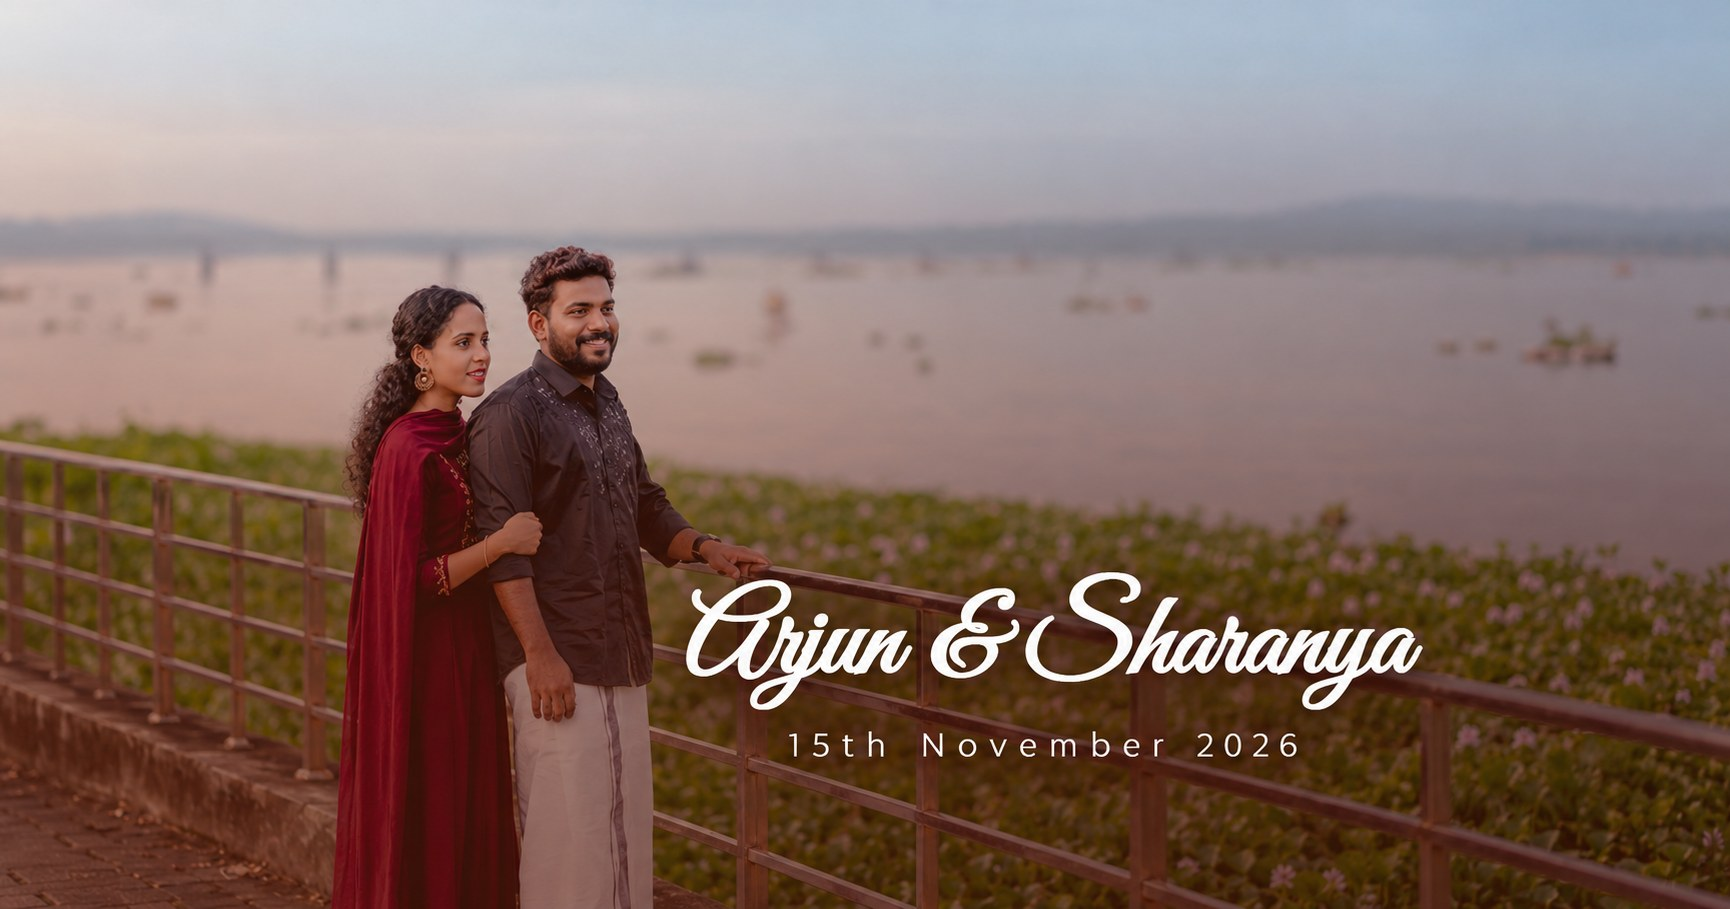
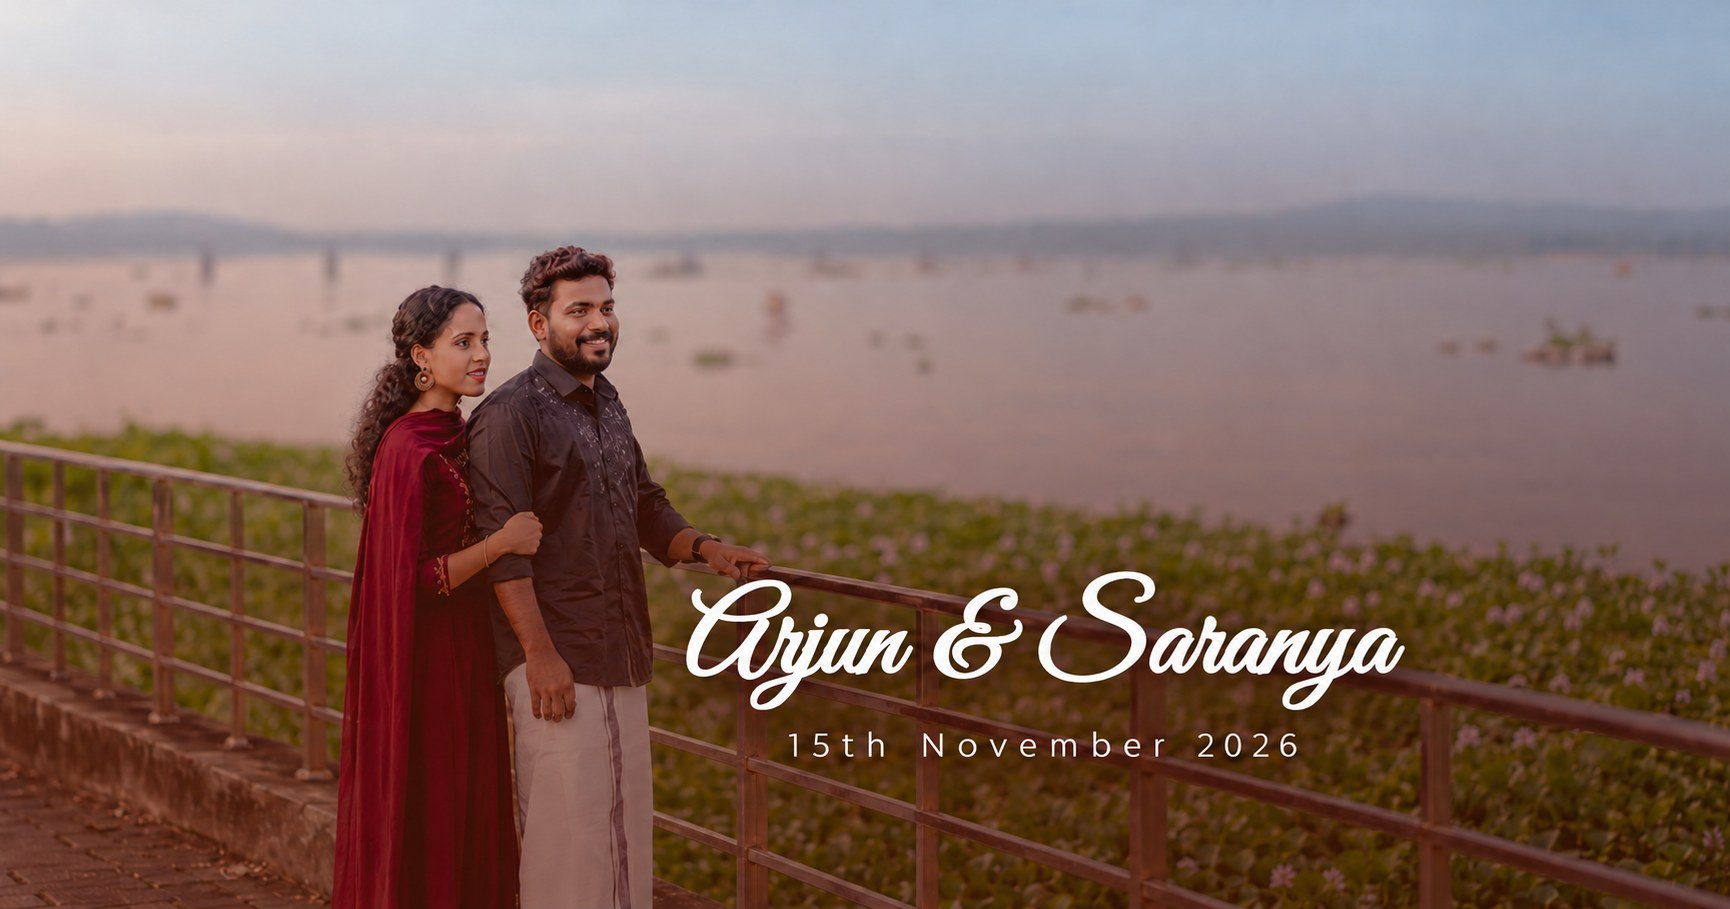
fghjk

Changed region(s): [[0.4682, 0.6161, 0.8428, 0.8009], [0.5931, 0.8009, 0.7179, 0.8317], [0.2185, 0.4004, 0.2497, 0.4312]]

diff --git a/index.html b/index.html
@@ -3,27 +3,27 @@
 <head>
   <meta charset="UTF-8" />
   <meta name="viewport" content="width=device-width, initial-scale=1.0" />
-  <title>Wedding Invitation | Arjun &amp; Sharanya</title>
-  <meta name="description" content="Join us for the wedding celebration of Arjun and Sharanya on 15th November 2026 at SNDP-648 Auditorium, Maravanthuruth, Vaikom." />
+  <title>Wedding Invitation | Arjun &amp; Saranya</title>
+  <meta name="description" content="Join us for the wedding celebration of Arjun and Saranya on 15th November 2026 at SNDP-648 Auditorium, Maravanthuruth, Vaikom." />
 
   <!-- Open Graph / WhatsApp / Facebook -->
   <meta property="og:type" content="website" />
   <meta property="og:url" content="https://arjun-sharanya.vercel.app/" />
-  <meta property="og:title" content="Wedding Invitation | Arjun &amp; Sharanya" />
-  <meta property="og:description" content="Join us for the wedding celebration of Arjun &amp; Sharanya on 15th November 2026 at SNDP-648 Auditorium, Maravanthuruth, Vaikom." />
+  <meta property="og:title" content="Wedding Invitation | Arjun &amp; Saranya" />
+  <meta property="og:description" content="Join us for the wedding celebration of Arjun &amp; Saranya on 15th November 2026 at SNDP-648 Auditorium, Maravanthuruth, Vaikom." />
   <meta property="og:image" content="https://arjun-sharanya.vercel.app/og.jpg" />
   <meta property="og:image:secure_url" content="https://arjun-sharanya.vercel.app/og.jpg" />
   <meta property="og:image:type" content="image/jpeg" />
   <meta property="og:image:width" content="1200" />
   <meta property="og:image:height" content="630" />
-  <meta property="og:image:alt" content="Arjun &amp; Sharanya Wedding Invitation" />
-  <meta property="og:site_name" content="Arjun &amp; Sharanya Wedding" />
+  <meta property="og:image:alt" content="Arjun &amp; Saranya Wedding Invitation" />
+  <meta property="og:site_name" content="Arjun &amp; Saranya Wedding" />
  
   <meta name="twitter:card" content="summary_large_image" />
-  <meta name="twitter:title" content="Wedding Invitation | Arjun &amp; Sharanya" />
-  <meta name="twitter:description" content="Join us for the wedding celebration of Arjun &amp; Sharanya on 15th November 2026 at SNDP-648 Auditorium, Maravanthuruth, Vaikom." />
+  <meta name="twitter:title" content="Wedding Invitation | Arjun &amp; Saranya" />
+  <meta name="twitter:description" content="Join us for the wedding celebration of Arjun &amp; Saranya on 15th November 2026 at SNDP-648 Auditorium, Maravanthuruth, Vaikom." />
   <meta name="twitter:image" content="https://arjun-sharanya.vercel.app/og.jpg" />
-  <meta name="twitter:image:alt" content="Arjun &amp; Sharanya Wedding Invitation" />
+  <meta name="twitter:image:alt" content="Arjun &amp; Saranya Wedding Invitation" />
   <link rel="preconnect" href="https://fonts.googleapis.com" />
   <link rel="preconnect" href="https://fonts.gstatic.com" crossorigin />
   <link href="https://fonts.googleapis.com/css2?family=Great+Vibes&family=Cormorant+Garamond:ital,wght@0,300;0,400;0,600;1,400&family=Montserrat:wght@300;400;500;600&display=swap" rel="stylesheet" />
@@ -35,10 +35,10 @@
   <div id="welcome-screen" class="welcome-screen">
     <div class="welcome-bg-text">Welcome</div>
     <div class="welcome-card">
-      <img src="gallery8.jpeg" alt="Arjun and Sharanya" class="welcome-img" />
+      <img src="gallery8.jpeg" alt="Arjun and Saranya" class="welcome-img" />
       <div class="welcome-overlay">
         <p class="welcome-tag">WEDDING INVITATION</p>
-        <h1 class="welcome-names">Arjun<br/><span class="amp-sm">&amp;</span><br/>Sharanya</h1>
+        <h1 class="welcome-names">Arjun<br/><span class="amp-sm">&amp;</span><br/>Saranya</h1>
         <div class="welcome-divider"></div>
         <p class="welcome-subtitle">15 . 11 . 26</p>
       </div>
@@ -66,14 +66,12 @@
         <img src="gallery1.jpeg" alt="Couple" />
       </div>
       <div class="hero-center">
-        <p class="hero-verse">Shree Ganeshaya Namah</p>
         <p class="hero-ref">WITH THE BLESSINGS OF OUR PARENTS</p>
         <div class="gold-line"></div>
         <h2 class="hero-groom">Arjun</h2>
         <p class="hero-amp">&amp;</p>
-        <h2 class="hero-bride">Sharanya</h2>
+        <h2 class="hero-bride">Saranya</h2>
         <p class="hero-date">15 . 11 . 26</p>
-        <p class="hero-venue-name">SNDP-648 Auditorium, Vaikom</p>
       </div>
       <div class="hero-arch hero-arch-right">
         <img src="gallery3.jpeg" alt="Couple" />
@@ -181,7 +179,7 @@
         <div class="couple-card">
           <div class="monogram">S</div>
           <div class="sparkle"><svg viewBox="0 0 24 24" fill="currentColor" width="16" height="16"><path d="M12 2l2.09 6.26L20 9.27l-4.91 4.77 1.18 6.73L12 17.27l-4.27 3.5 1.18-6.73L4 9.27l5.91-1.01z"/></svg></div>
-          <h3 class="c-name">Sharanya</h3>
+          <h3 class="c-name">Saranya</h3>
           <p class="c-role">DAUGHTER OF</p>
           <p class="c-parents">D. Chandrabhanu &amp; P. K. Balamani</p>
         </div>
@@ -190,9 +188,9 @@
 
     <!-- FEATURE PHOTO -->
     <section class="feature-section">
-      <img src="gallery7.jpeg" alt="Arjun and Sharanya" class="feature-img" style="object-position:center 46%" />
+      <img src="gallery7.jpeg" alt="Arjun and Saranya" class="feature-img" style="object-position:center 46%" />
       <div class="feature-overlay">
-        <h2 class="feat-names">Arjun &amp; Sharanya</h2>
+        <h2 class="feat-names">Arjun &amp; Saranya</h2>
         <p class="feat-date">15th November 2026</p>
       </div>
     </section>
@@ -213,7 +211,7 @@
     <footer class="footer-section">
       <div class="footer-bg-text">Thank You</div>
       <div class="footer-inner">
-        <h2 class="footer-names">Arjun &amp; Sharanya</h2>
+        <h2 class="footer-names">Arjun &amp; Saranya</h2>
         <div class="gold-line short"></div>
         <p class="footer-date">15 NOVEMBER 2026</p>
         <p class="footer-quote">“With the blessings of our beloved parents, we cordially invite you to join us in celebrating our wedding and to bless us on this special occasion.”</p>
